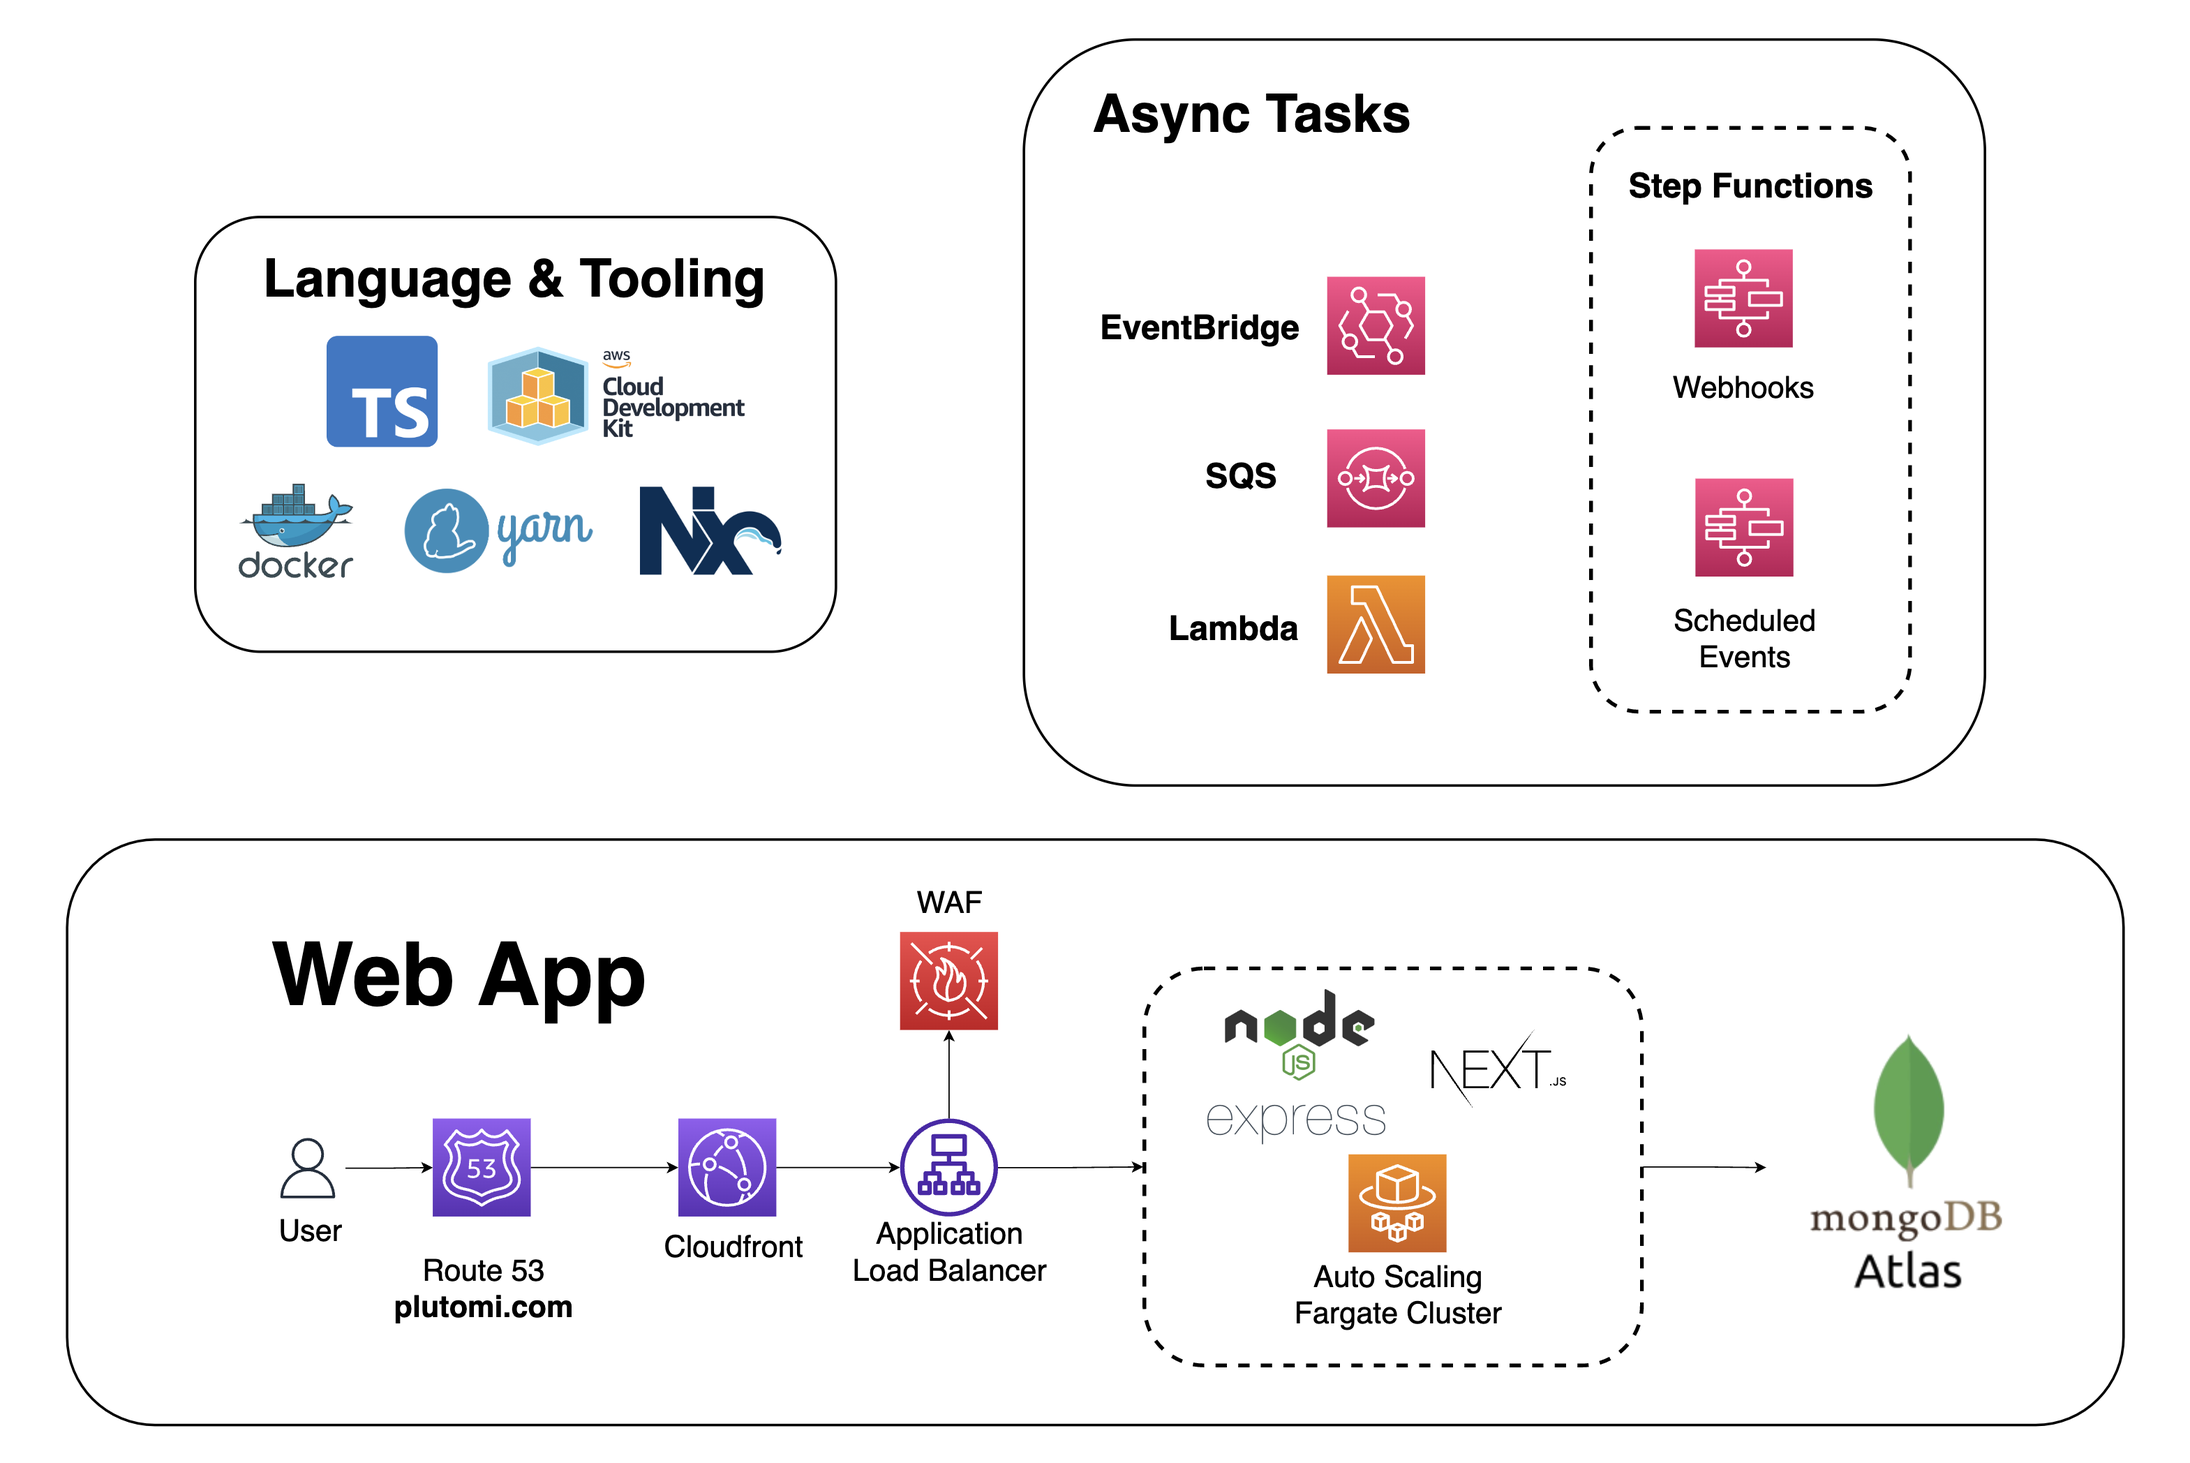
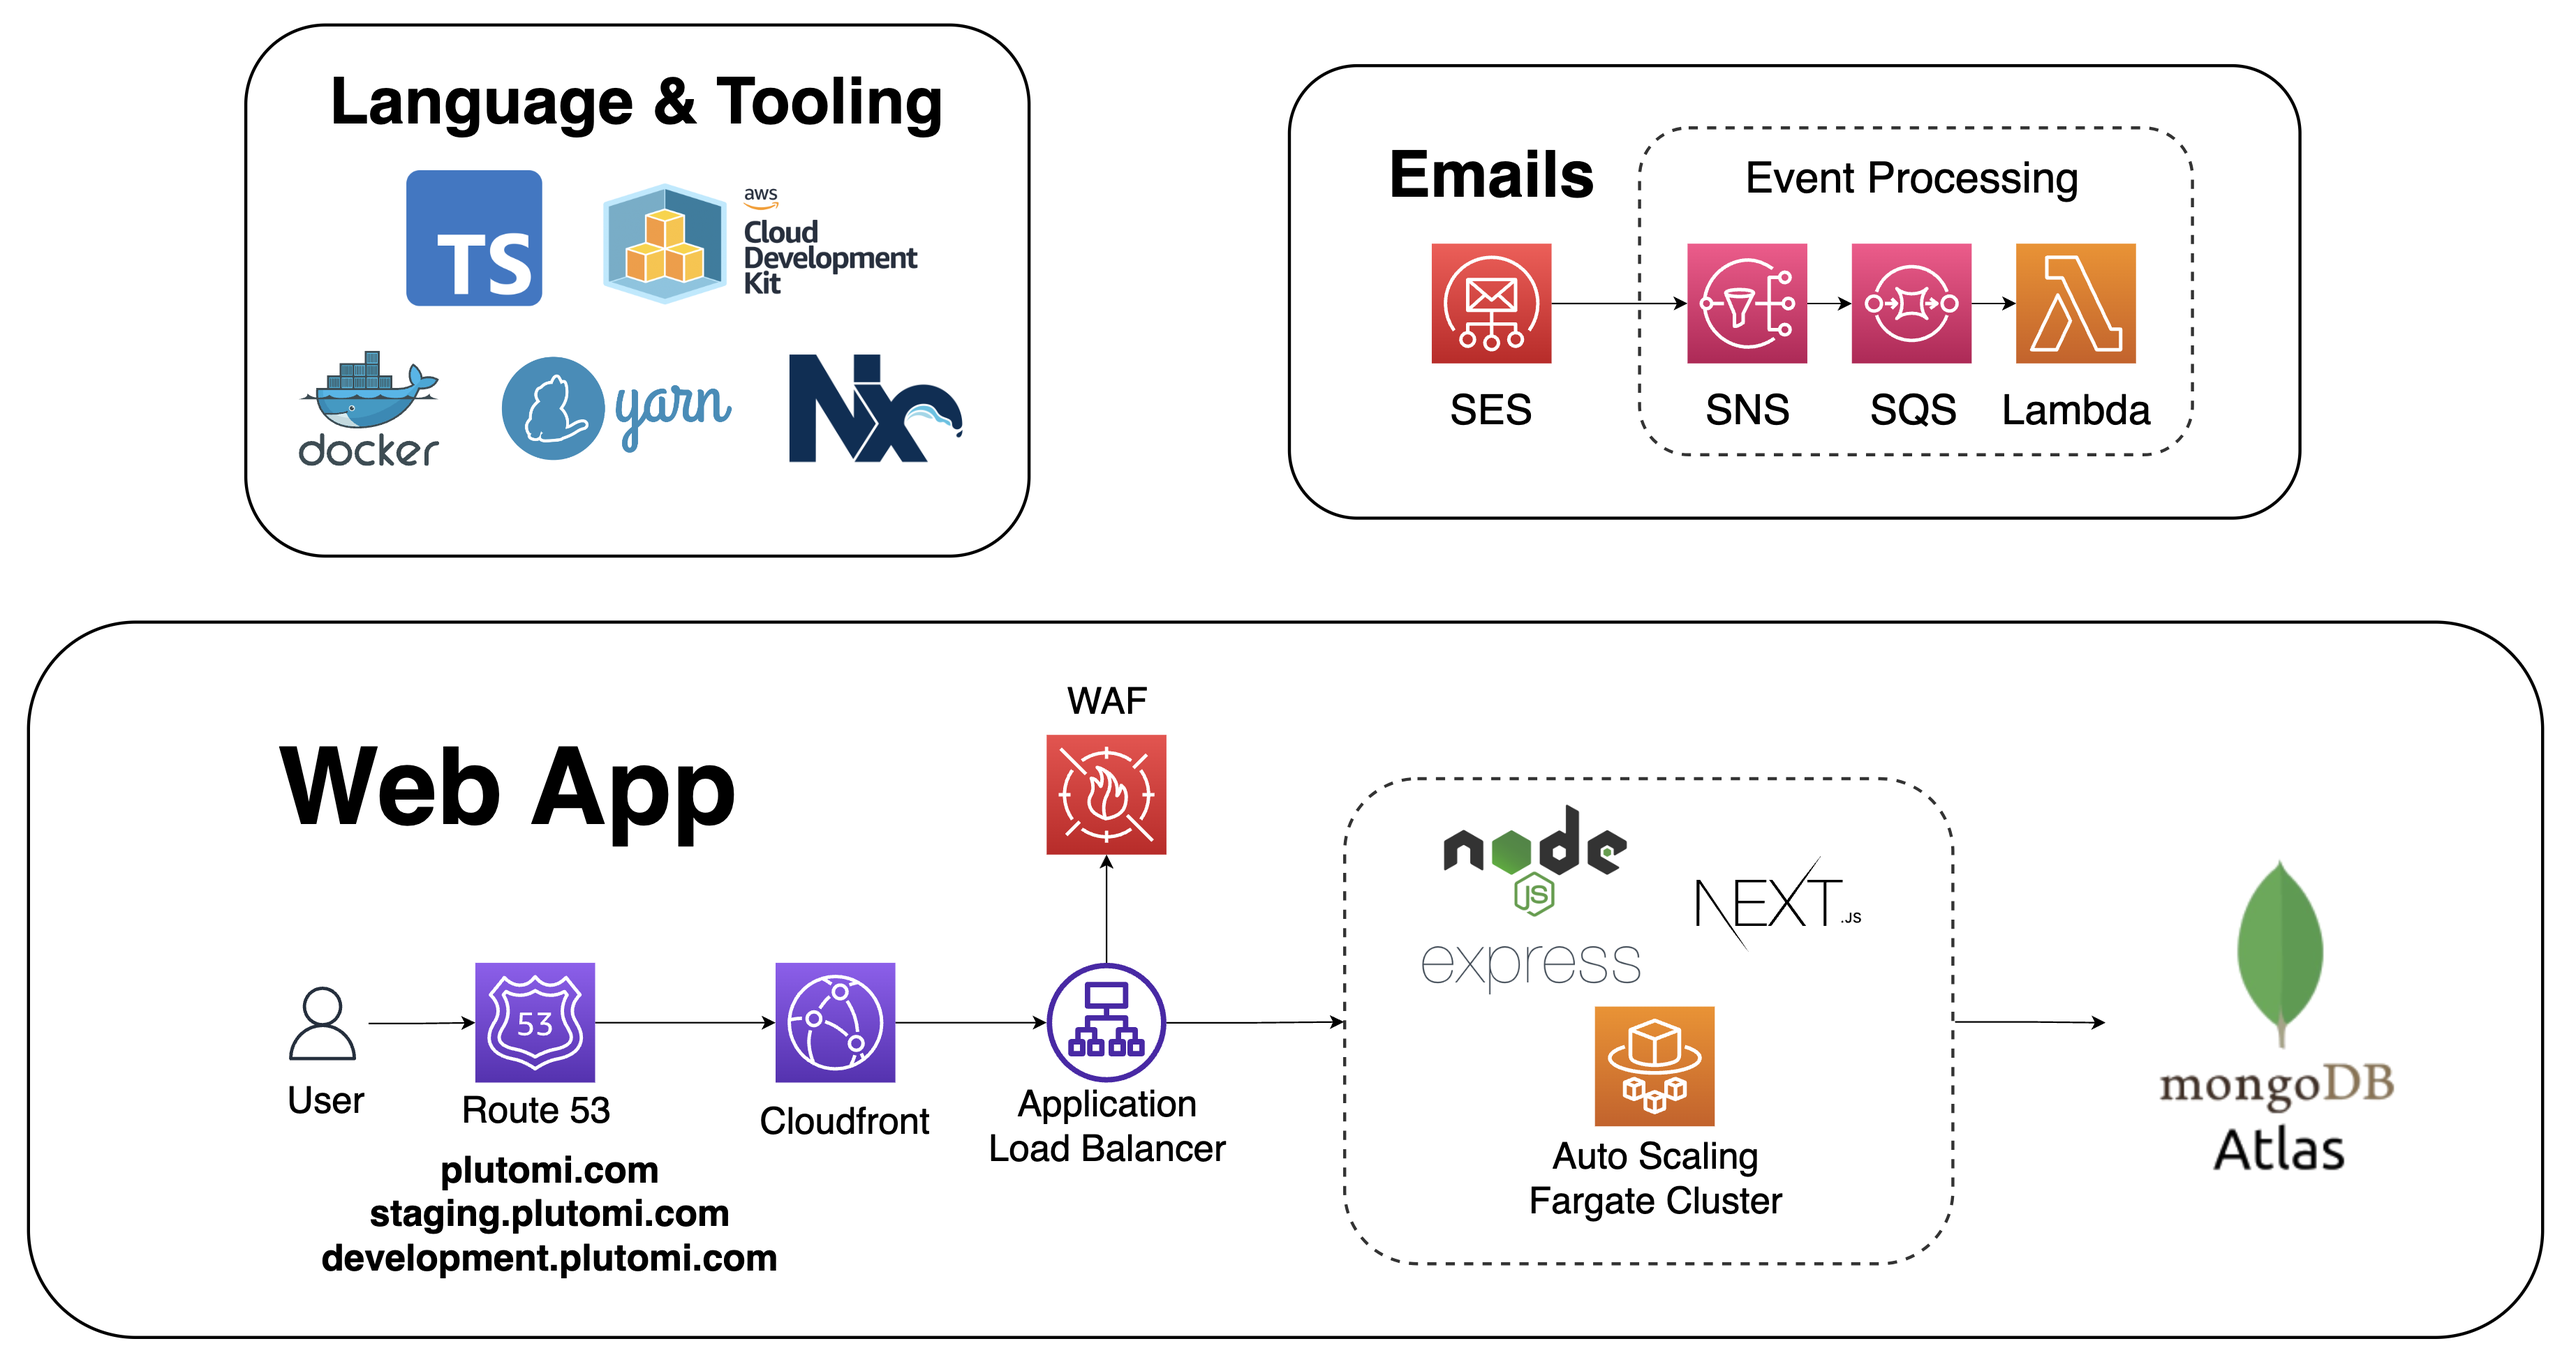
Some cleanup

diff --git a/packages/api/controllers/all/get.ts b/packages/api/controllers/all/get.ts
@@ -1,0 +1,18 @@
+import type { RequestHandler } from "express";
+import KSUID from "ksuid";
+
+export const get: RequestHandler = async (req, res) => {
+  const reqId = KSUID.randomSync().string;
+  const startString = `start=${reqId}`;
+  const dbString = `db=${reqId}`;
+  console.time(startString);
+  try {
+    console.time(dbString);
+    const results = await req.items.find({}).toArray();
+    console.timeEnd(dbString);
+    res.status(200).json(results);
+    console.timeEnd(startString);
+  } catch (error) {
+    res.status(500).json({ message: "Error connecting to MongoDB!", error });
+  }
+};

diff --git a/packages/api/controllers/index.ts b/packages/api/controllers/index.ts
@@ -6,11 +6,13 @@ import { waitlist } from "./waitlist";
 import { logout } from "./logout";
 import { users } from "./users";
 import { orgs } from "./orgs";
+import { all } from "./all";
 
 const API = Router();
 
 API.use("/waitlist", waitlist);
 API.use("/health", health);
+API.use("/all", all);
 API.use("/totp", totp);
 API.use("/logout", logout);
 API.use("/users", users);

diff --git a/packages/database/utils/connectToDatabase.ts b/packages/database/utils/connectToDatabase.ts
@@ -40,7 +40,9 @@ export const connectToDatabase = async ({
       version: ServerApiVersion.v1,
       strict: true,
       deprecationErrors: true
-    }
+    },
+    minPoolSize: 50,
+    maxPoolSize: 150
   });
 
   const database: Db = client.db(databaseName);

diff --git a/packages/api/controllers/all/index.ts b/packages/api/controllers/all/index.ts
@@ -1,0 +1,6 @@
+import { Router } from "express";
+import { get } from "./get";
+
+export const all = Router();
+
+all.use("/", get);

diff --git a/README.md b/README.md
@@ -2,21 +2,7 @@
 
 ---
 
-# Table of Contents :book:
-
-1. [Intro](#intro)
-2. [Motivation](#motivation)
-3. [Summary](#summary)
-4. [Prerequisites](#pre-req)
-5. [Useful Commands](#commands)
-6. [Language, Tooling, and Infrastructure](#language-tooling-infra)
-7. [License](#license)
-8. [Contributing & Contributors](#contributing)
-9. [Questions](#questions)
-
-<a name="intro"></a>
-
-# Plutomi :shipit:
+# Plutomi
 
 ![build badge](https://github.com/plutomi/plutomi/actions/workflows/build.yml/badge.svg)
 ![linter badge](https://github.com/plutomi/plutomi/actions/workflows/linter.yml/badge.svg)
@@ -30,19 +16,16 @@
 Plutomi is a _multi-tenant_ [applicant tracking system](https://en.wikipedia.org/wiki/Applicant_tracking_system) that streamlines your entire application process with automated workflows at any scale.
 
 ![infra](images/infra.png)
-<a name="motivation"></a>
 
-## Motivation :bulb:
+## Motivation
 
 Having worked at a company that needed to recruit thousands of contractors every month, improving our acquisition flow at that scale became a challenge. Many processes had to be done manually because there just wasn't an API available for it. We often hit limits and had to work around them with a myriad of webhooks, queues, and batch jobs to keep things running smoothly. It would have benefited us to have an open platform to contribute to and build upon and this project is [my](https://www.linkedin.com/in/joswayski/) attempt to do just that.
 
-<a name="summary"></a>
-
-## Summary :tea:
+## Summary
 
 You can create `applications` which people can apply to. An application can be anything from a job, a location for a delivery company, or a program like a summer camp.
 
-In these applications, you can create `stages` which are individual steps that need to be completed by your `applicants`. You can add `questions` and setup automatic move `rules` that determine where applicants go next depending on their `answers` or after a certain time period.
+In these applications, you can create `stages` which are individual steps that need to be completed by your `applicants`. You can add `questions` and setup automatic move `rules` that determine where applicants go next depending on their `responses` or after a certain time period.
 
 An application for a delivery company might look like this:
 
@@ -56,19 +39,16 @@ Stages:
 4. **Final Review** - Manually review an applicant's license for compliance
 5. **Ready to Drive** - Applicants that have completed your application
 
-<a name="pre-req"></a>
-
-## Prerequisites :heavy_exclamation_mark:
+## Prerequisites
 
 - [Node 18](https://nodejs.org/en/download)
 - [Docker](https://docs.docker.com/get-docker/)
 - Install the [AWS CDK CLI](https://docs.aws.amazon.com/cdk/v2/guide/getting_started.html#getting_started_install) `yarn global add aws-cdk`
 - Create a [Hosted Zone](https://docs.aws.amazon.com/Route53/latest/DeveloperGuide/CreatingHostedZone.html) in Route53 with your domain
-  - If creating a `stage` or `dev` environment, you can use a subdomain like `stage.example.com`. In your `prod` environment, the hosted zone should be for your base domain like `example.com`, and you should add the name servers from your `stage` or `dev` accounts to your `prod` hosted zone.
-- Create a [verified identity](https://docs.aws.amazon.com/ses/latest/DeveloperGuide/verify-domain-procedure.html) with your domain in SES
-  <a name="commands"></a>
+  - If creating a `staging` or `development` environment, you can use a subdomain like `staging.yourdomain.com`. In your `prod` environment, the hosted zone should be for your base domain like `yourdomain.com`, and you should add the name servers from your `staging` or `development` accounts to your `production` hosted zone.
+  - Our CDK stack will create the necessary DNS records for the SSL certificate (using ACM) and the necessary records to send emails using SES. We recommend creating an email alias at `staging.yourdomain.com` & `development.yourdomain`, and adding the MX records to the proper hosted zones.
 
-## Useful Commands :computer:
+## Useful Commands
 
 - `yarn` - Install deps.
   - We are using a Monorepo so shared deps will be at the `root` while workspace specific deps will be installed in the appropriate workspace. Yarn workspaces paired with [nx](https://nx.dev/) is a killer combo
@@ -90,9 +70,7 @@ Stages:
 
 - `yarn deploy:dev/stage/prod` - Deploy to the specified environment
 
-<a name="language-tooling-infra"></a>
-
-## Language, Tooling, & Infrastructure 🛠
+## Language, Tooling, & Infrastructure
 
 > Make sure to open the `plutomi.code-workspace` file to get the best dev experience with linters and such
 
@@ -161,13 +139,11 @@ You can then get type safe environment variables in each package:
 
 ![type-safe-env](images/type-safety-env.png)
 
-<a name="license"></a>
-
-## License 📃
+## License
 
 This project is licensed under the [Apache 2.0 license](LICENSE). Here is a [TLDR](https://www.tldrlegal.com/license/apache-license-2-0-apache-2-0).
 
-## Contributing & Contributors ✨ <a name="contributing"></a>
+## Contributing & Contributors
 
 To make a contribution, submit a pull request into the `main` branch. You will be asked to sign a [Contributor License Agreement](https://en.wikipedia.org/wiki/Contributor_License_Agreement) for your PR. You'll only have to do this once.
 
@@ -194,6 +170,6 @@ This project follows the [all-contributors](https://github.com/all-contributors/
 
 <a name="questions"></a>
 
-## Questions ❓
+## Questions
 
 Open an issue! Or [DM me on Twitter](https://twitter.com/notjoswayski) or email jose@plutomi.com
